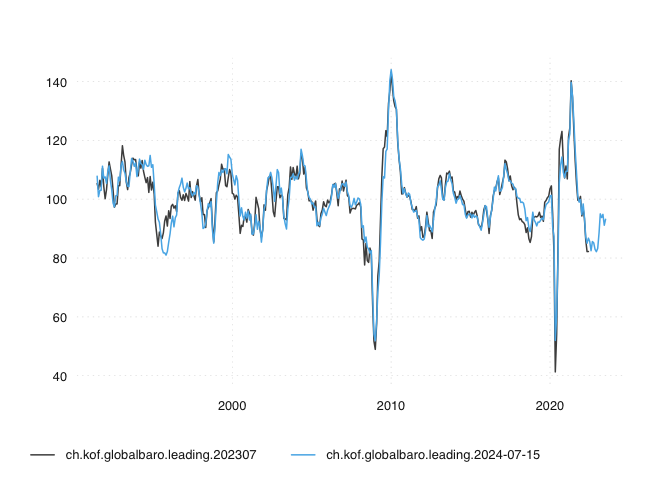
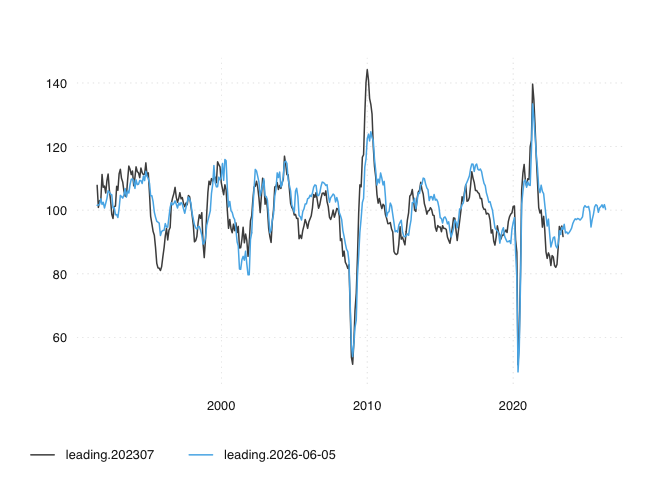
update readme

diff --git a/README.md b/README.md
@@ -4,6 +4,10 @@
 # Open Time Series: Human-Friendly, Machine Readable Time Series
 
 <!-- badges: start -->
+
+[![Lifecycle:
+experimental](https://img.shields.io/badge/lifecycle-experimental-orange.svg)](https://lifecycle.r-lib.org/articles/stages.html#experimental)
+[![Version](https://img.shields.io/badge/version-0.1.0-blue.svg)](https://github.com/opentsi/opentimeseries)
 <!-- badges: end -->
 
 The primary goal of the opentimeseries R package is to conveniently read
@@ -29,22 +33,22 @@ Given a unique time series identifier and a GitHub repo,
 
 ``` r
 library(opentimeseries)
-a <- read_open_ts("ch.kof.globalbaro.leading",
-                  remote_archive = "opentsi/kofethz")
+a <- read_open_ts("leading",
+                  remote_archive = "opentsi/ch.kof.globalbaro")
 a
-#>                             id       date     value
-#>                         <char>     <Date>     <num>
-#>   1: ch.kof.globalbaro.leading 1991-07-01 107.81518
-#>   2: ch.kof.globalbaro.leading 1991-08-01 100.85396
-#>   3: ch.kof.globalbaro.leading 1991-09-01 103.00739
-#>   4: ch.kof.globalbaro.leading 1991-10-01 103.03732
-#>   5: ch.kof.globalbaro.leading 1991-11-01 111.22218
-#>  ---                                               
-#> 381: ch.kof.globalbaro.leading 2023-03-01  95.01878
-#> 382: ch.kof.globalbaro.leading 2023-04-01  93.80463
-#> 383: ch.kof.globalbaro.leading 2023-05-01  94.84820
-#> 384: ch.kof.globalbaro.leading 2023-06-01  91.14499
-#> 385: ch.kof.globalbaro.leading 2023-07-01  93.17270
+#>           id       date    value
+#>       <char>     <IDat>    <num>
+#>   1: leading 1991-07-01 101.5254
+#>   2: leading 1991-08-01 101.6025
+#>   3: leading 1991-09-01 101.8892
+#>   4: leading 1991-10-01 103.5929
+#>   5: leading 1991-11-01 101.8006
+#>  ---                            
+#> 415: leading 2026-01-01 101.1284
+#> 416: leading 2026-02-01 101.6809
+#> 417: leading 2026-03-01 100.7737
+#> 418: leading 2026-04-01 101.7341
+#> 419: leading 2026-05-01 100.3021
 ```
 
 By specifying a date in addition, you can able to obtain other versions
@@ -53,7 +57,7 @@ the most recent release that was available at the selected date.
 
 ``` r
 
-a202307 <- read_open_ts("ch.kof.globalbaro.leading",
+a202307 <- read_open_ts("leading", remote_archive = "opentsi/ch.kof.globalbaro",
                         date = "2023-07-01")
 ```
 
@@ -69,7 +73,7 @@ ts_plot(rbind(a202307,a))
 #> [time]: 'date'
 ```
 
-<img src="man/figures/README-unnamed-chunk-4-1.png" width="100%" />
+<img src="man/figures/README-unnamed-chunk-4-1.png" alt="" width="100%" />
 
 ## Get Entire History of a Time Series
 
@@ -83,17 +87,16 @@ versions.
 
 ``` r
 
-hist_triangle <- read_history("ch.kof.globalbaro.leading",
- remote_archive = "opentsi/kofethz", lastn = 5)
+hist_triangle <- read_ts_history("leading",
+ remote_archive = "opentsi/ch.kof.globalbaro", lastn = 5)
 
 tail(hist_triangle)
-#> Key: <date>
-#>          date v2025-02-01 v2025-03-01 v2025-04-01 v2025-05-01 v2025-06-01
-#>        <Date>       <num>       <num>       <num>       <num>       <num>
-#> 1: 2024-01-01    111.4755   111.93393   112.22277   112.43953   112.40559
-#> 2: 2024-02-01    105.5114   104.87135   105.00907   105.40360   105.42741
-#> 3: 2024-03-01          NA    99.14223    98.91744    98.99472    99.09614
-#> 4: 2024-04-01          NA          NA   101.05006   101.19983   101.32582
-#> 5: 2024-05-01          NA          NA          NA   102.78880   102.89490
-#> 6: 2024-06-01          NA          NA          NA          NA   103.87232
+#>         id vintage_date       date    value
+#>     <char>       <Date>     <IDat>    <num>
+#> 1: leading   2026-01-10 2025-08-01 102.3667
+#> 2: leading   2026-01-10 2025-09-01 103.0842
+#> 3: leading   2026-01-10 2025-10-01 102.6744
+#> 4: leading   2026-01-10 2025-11-01 100.0222
+#> 5: leading   2026-01-10 2025-12-01 101.5901
+#> 6: leading   2026-01-10 2026-01-01 102.0589
 ```